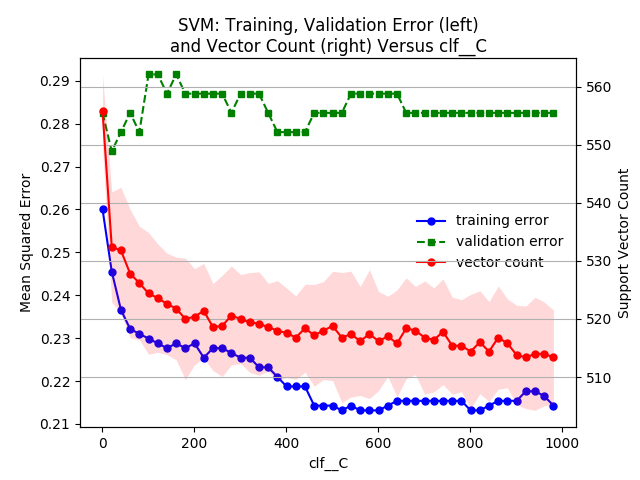
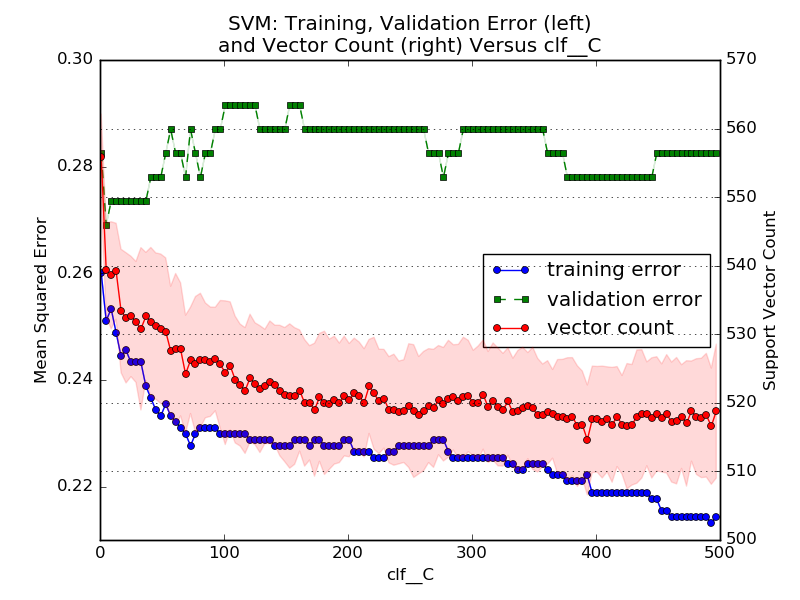
running

diff --git a/Assignment1/validation_curves_svm.py b/Assignment1/validation_curves_svm.py
@@ -135,12 +135,15 @@ class validation_curves:
                 
                 # do the cross validation
                 for k, (train, test) in enumerate(skf.split(X=X_train, y=y_train)):
-                    
+                   
+                    #params = clf.get_params()
+                    #print(params)
+ 
                     # run the learning algorithm
                     clf.fit(X_train[train], y_train[train])
                     
                     # complexity
-                    nvectors = clf.clf.n_support_.sum()
+                    nvectors = clf.named_steps['clf'].n_support_.sum()
                     num_vectors.append(nvectors)
                     
                     # in sample
